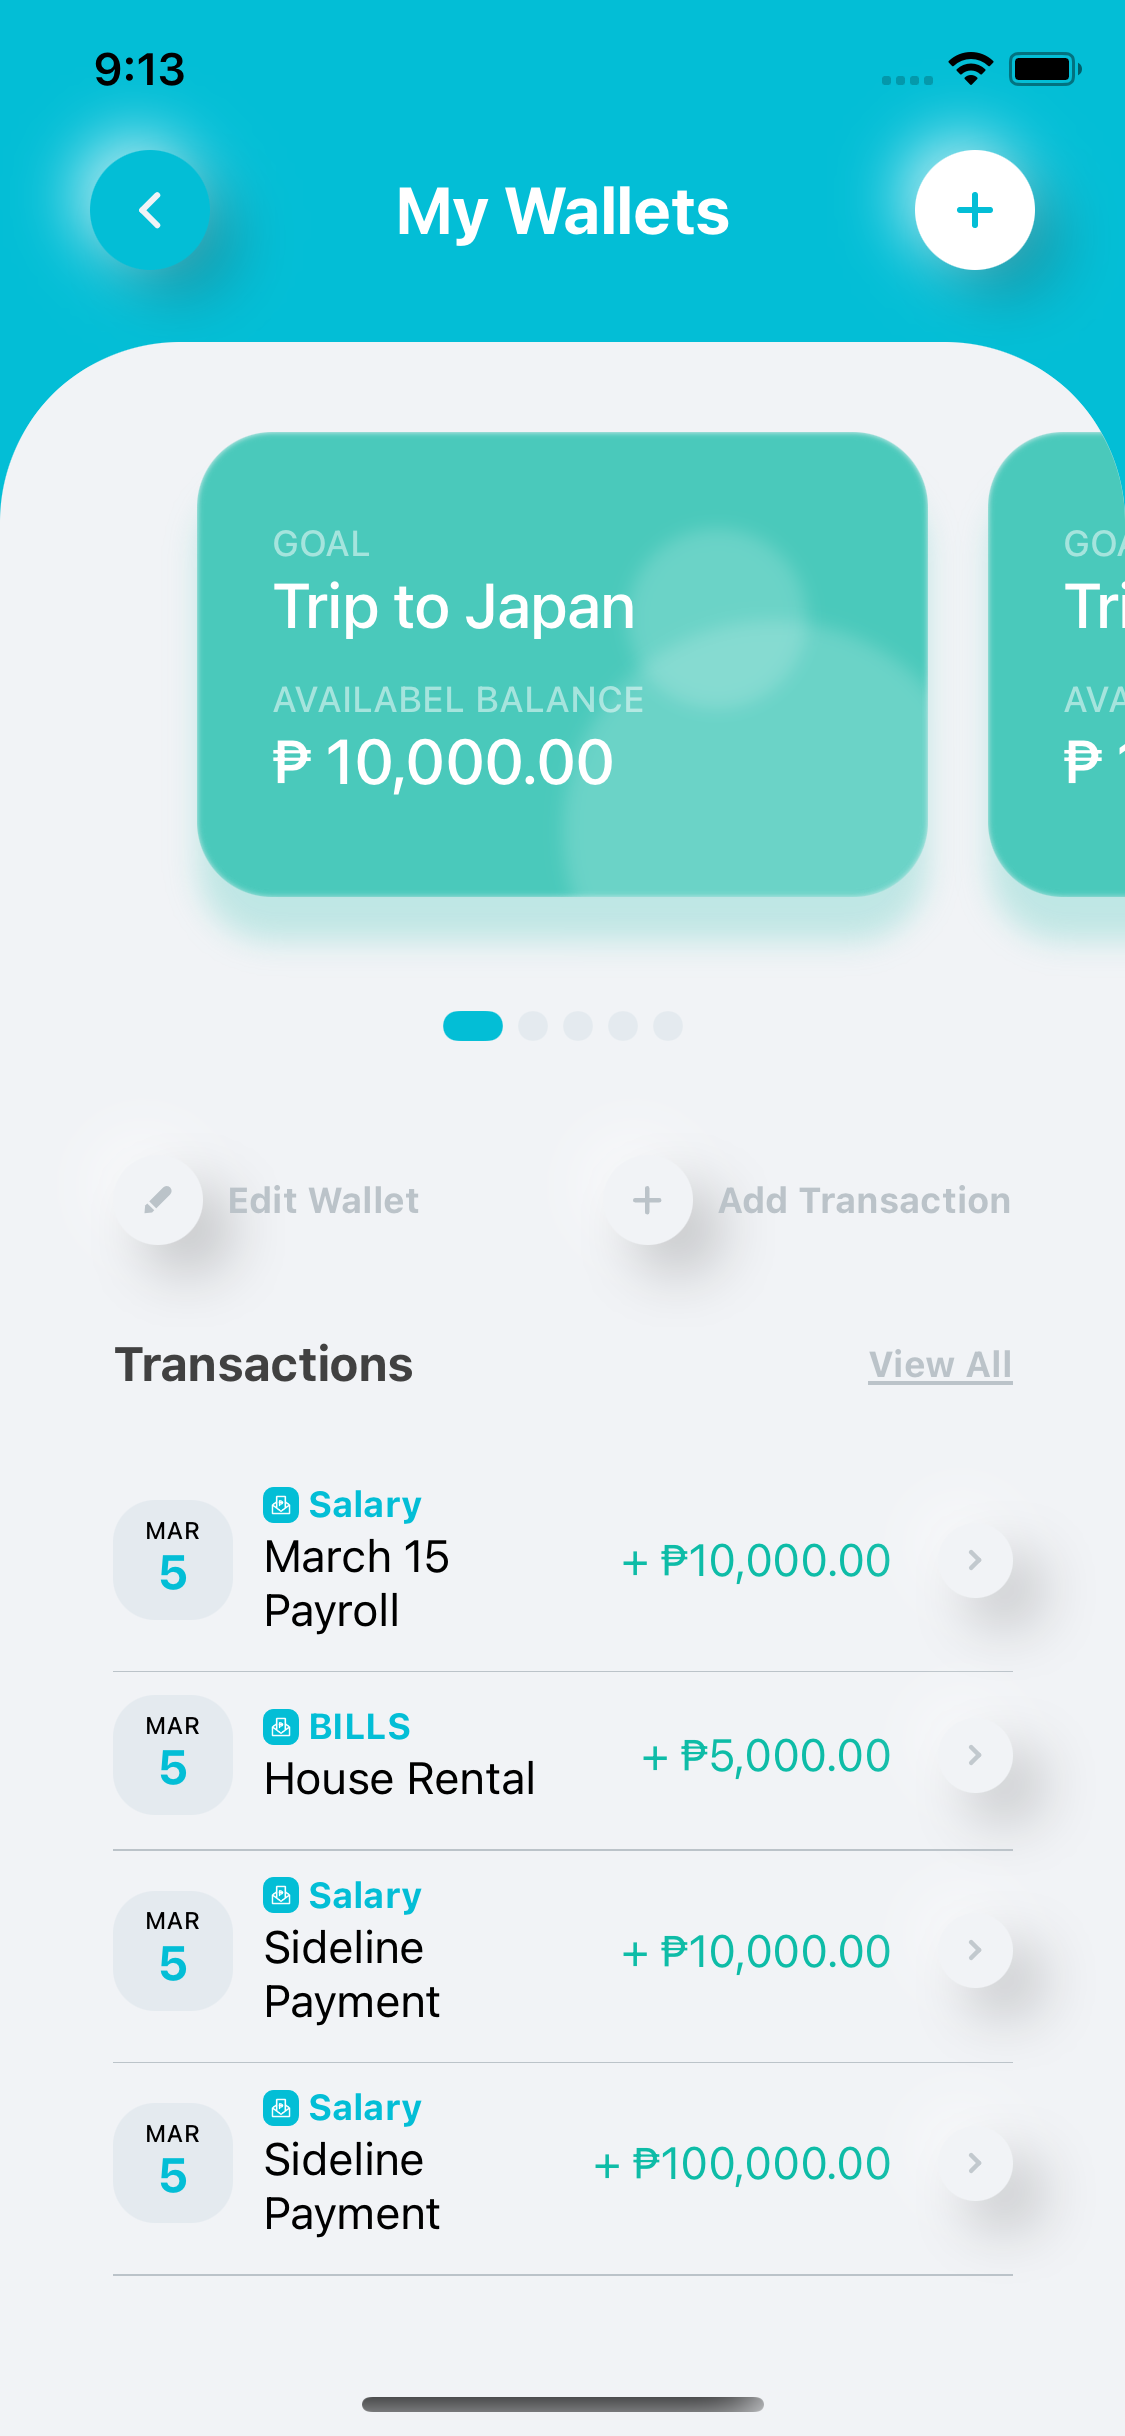
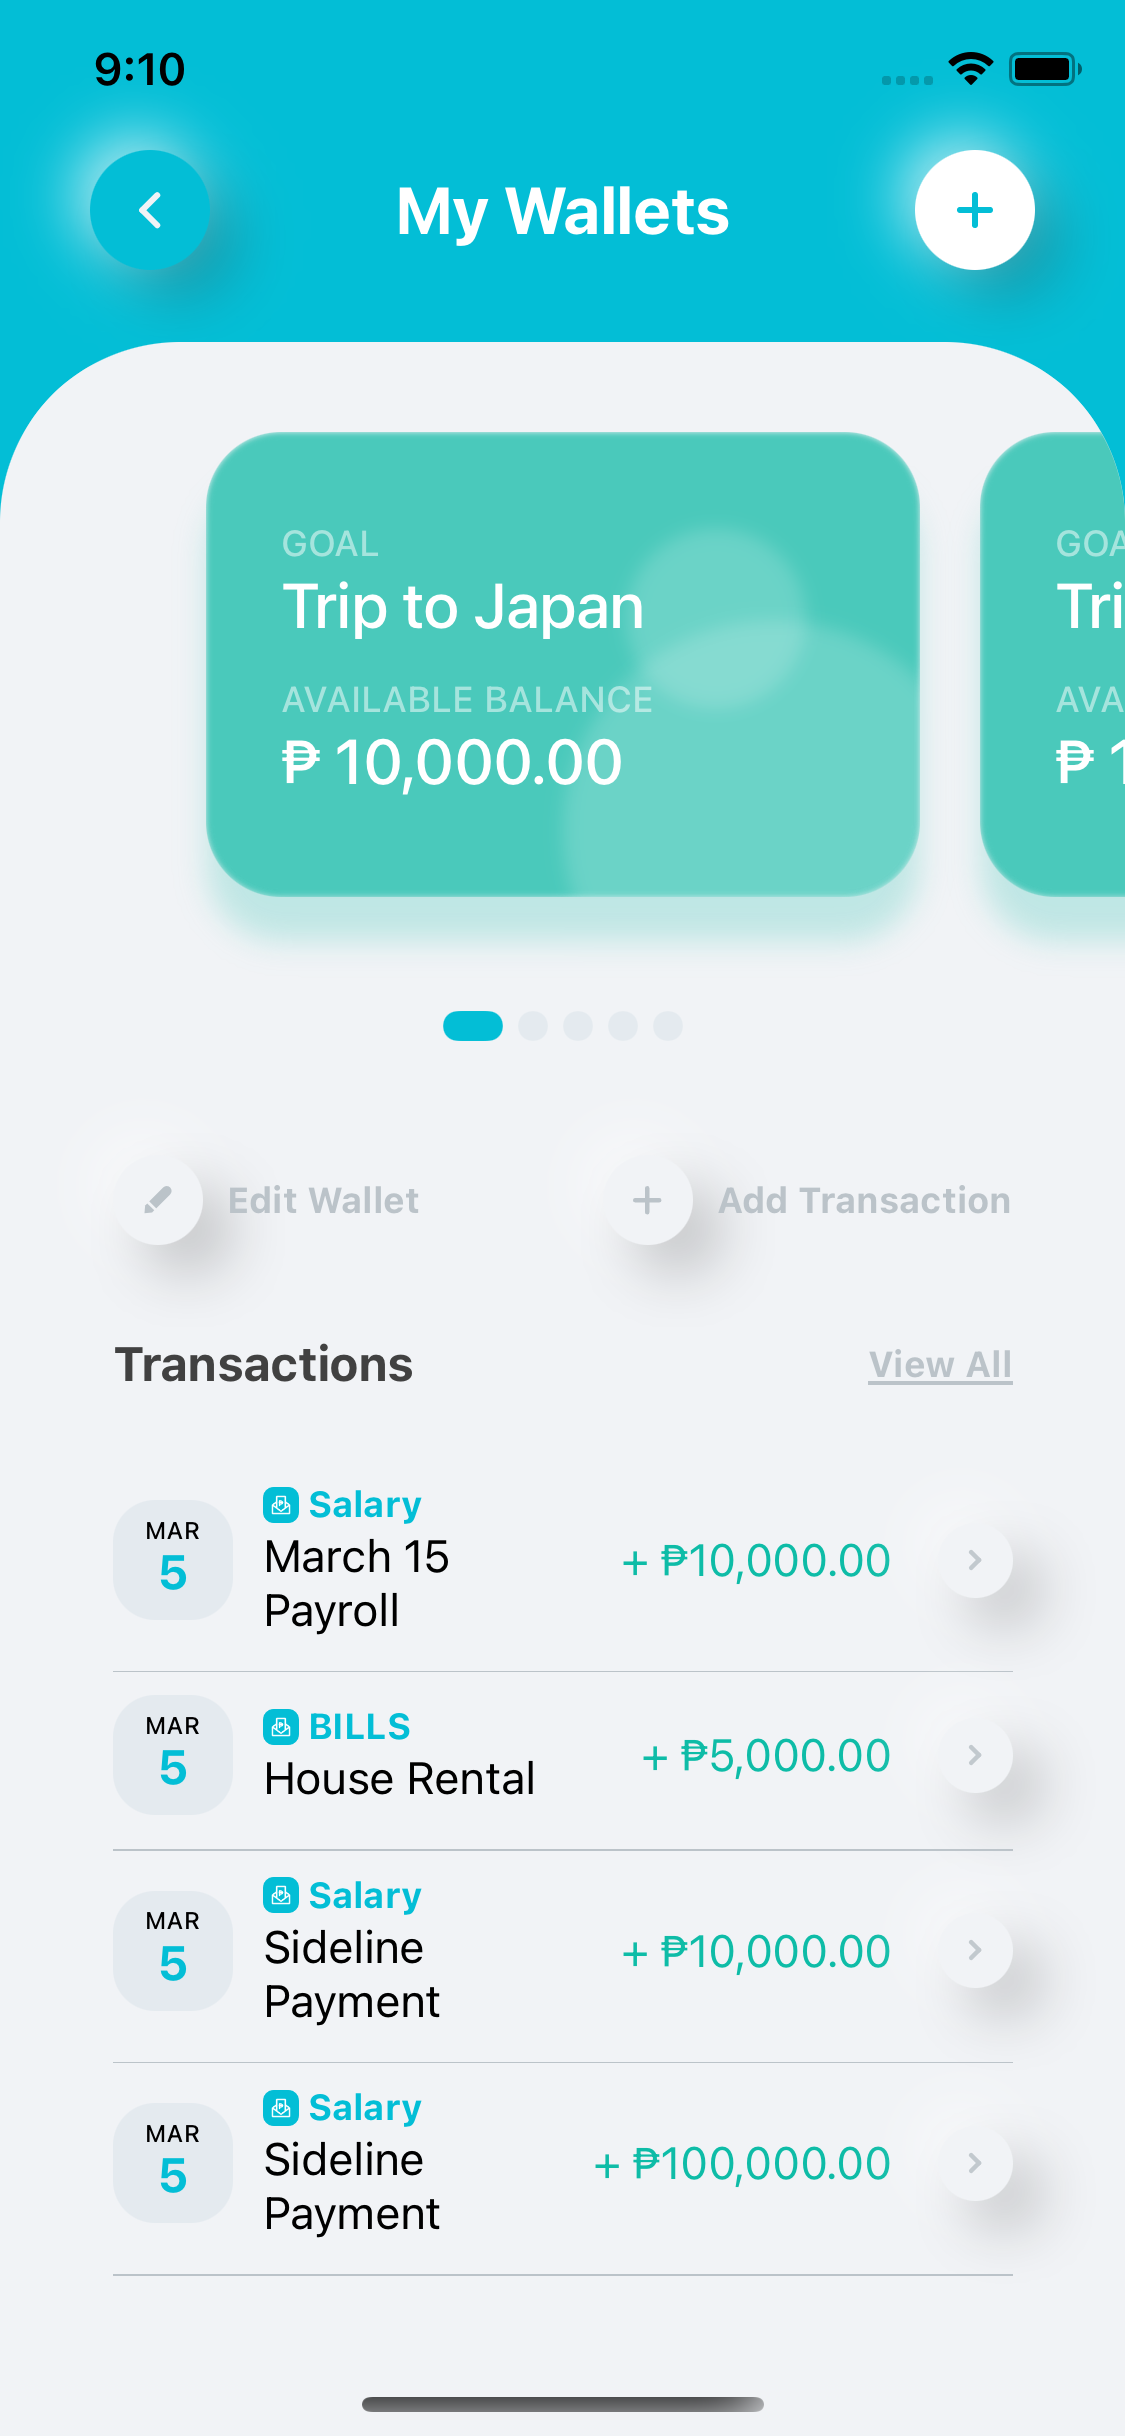
Adjust card width to its max width

diff --git a/Kwartracker/Scenes/Wallet Page/WalletOneCardCenterView.swift b/Kwartracker/Scenes/Wallet Page/WalletOneCardCenterView.swift
@@ -25,7 +25,7 @@ struct WalletOneCardCenterView: View {
         let newWidth = maxWidth < calculatedWidth ? maxWidth : calculatedWidth
         let calculatedHeight = self.setHeightRatio(width: newWidth,
                                                    baseSize: baseSize)
-        self._cardSize = State(initialValue: CGSize(width: calculatedWidth, height: calculatedHeight))
+        self._cardSize = State(initialValue: CGSize(width: newWidth, height: calculatedHeight))
         // Calculate Total Content Width
         let contentWidth: CGFloat = CGFloat(items) * cardSize.width + CGFloat(items - 1) * itemSpacing
         let screenWidth = UIScreen.main.bounds.width
